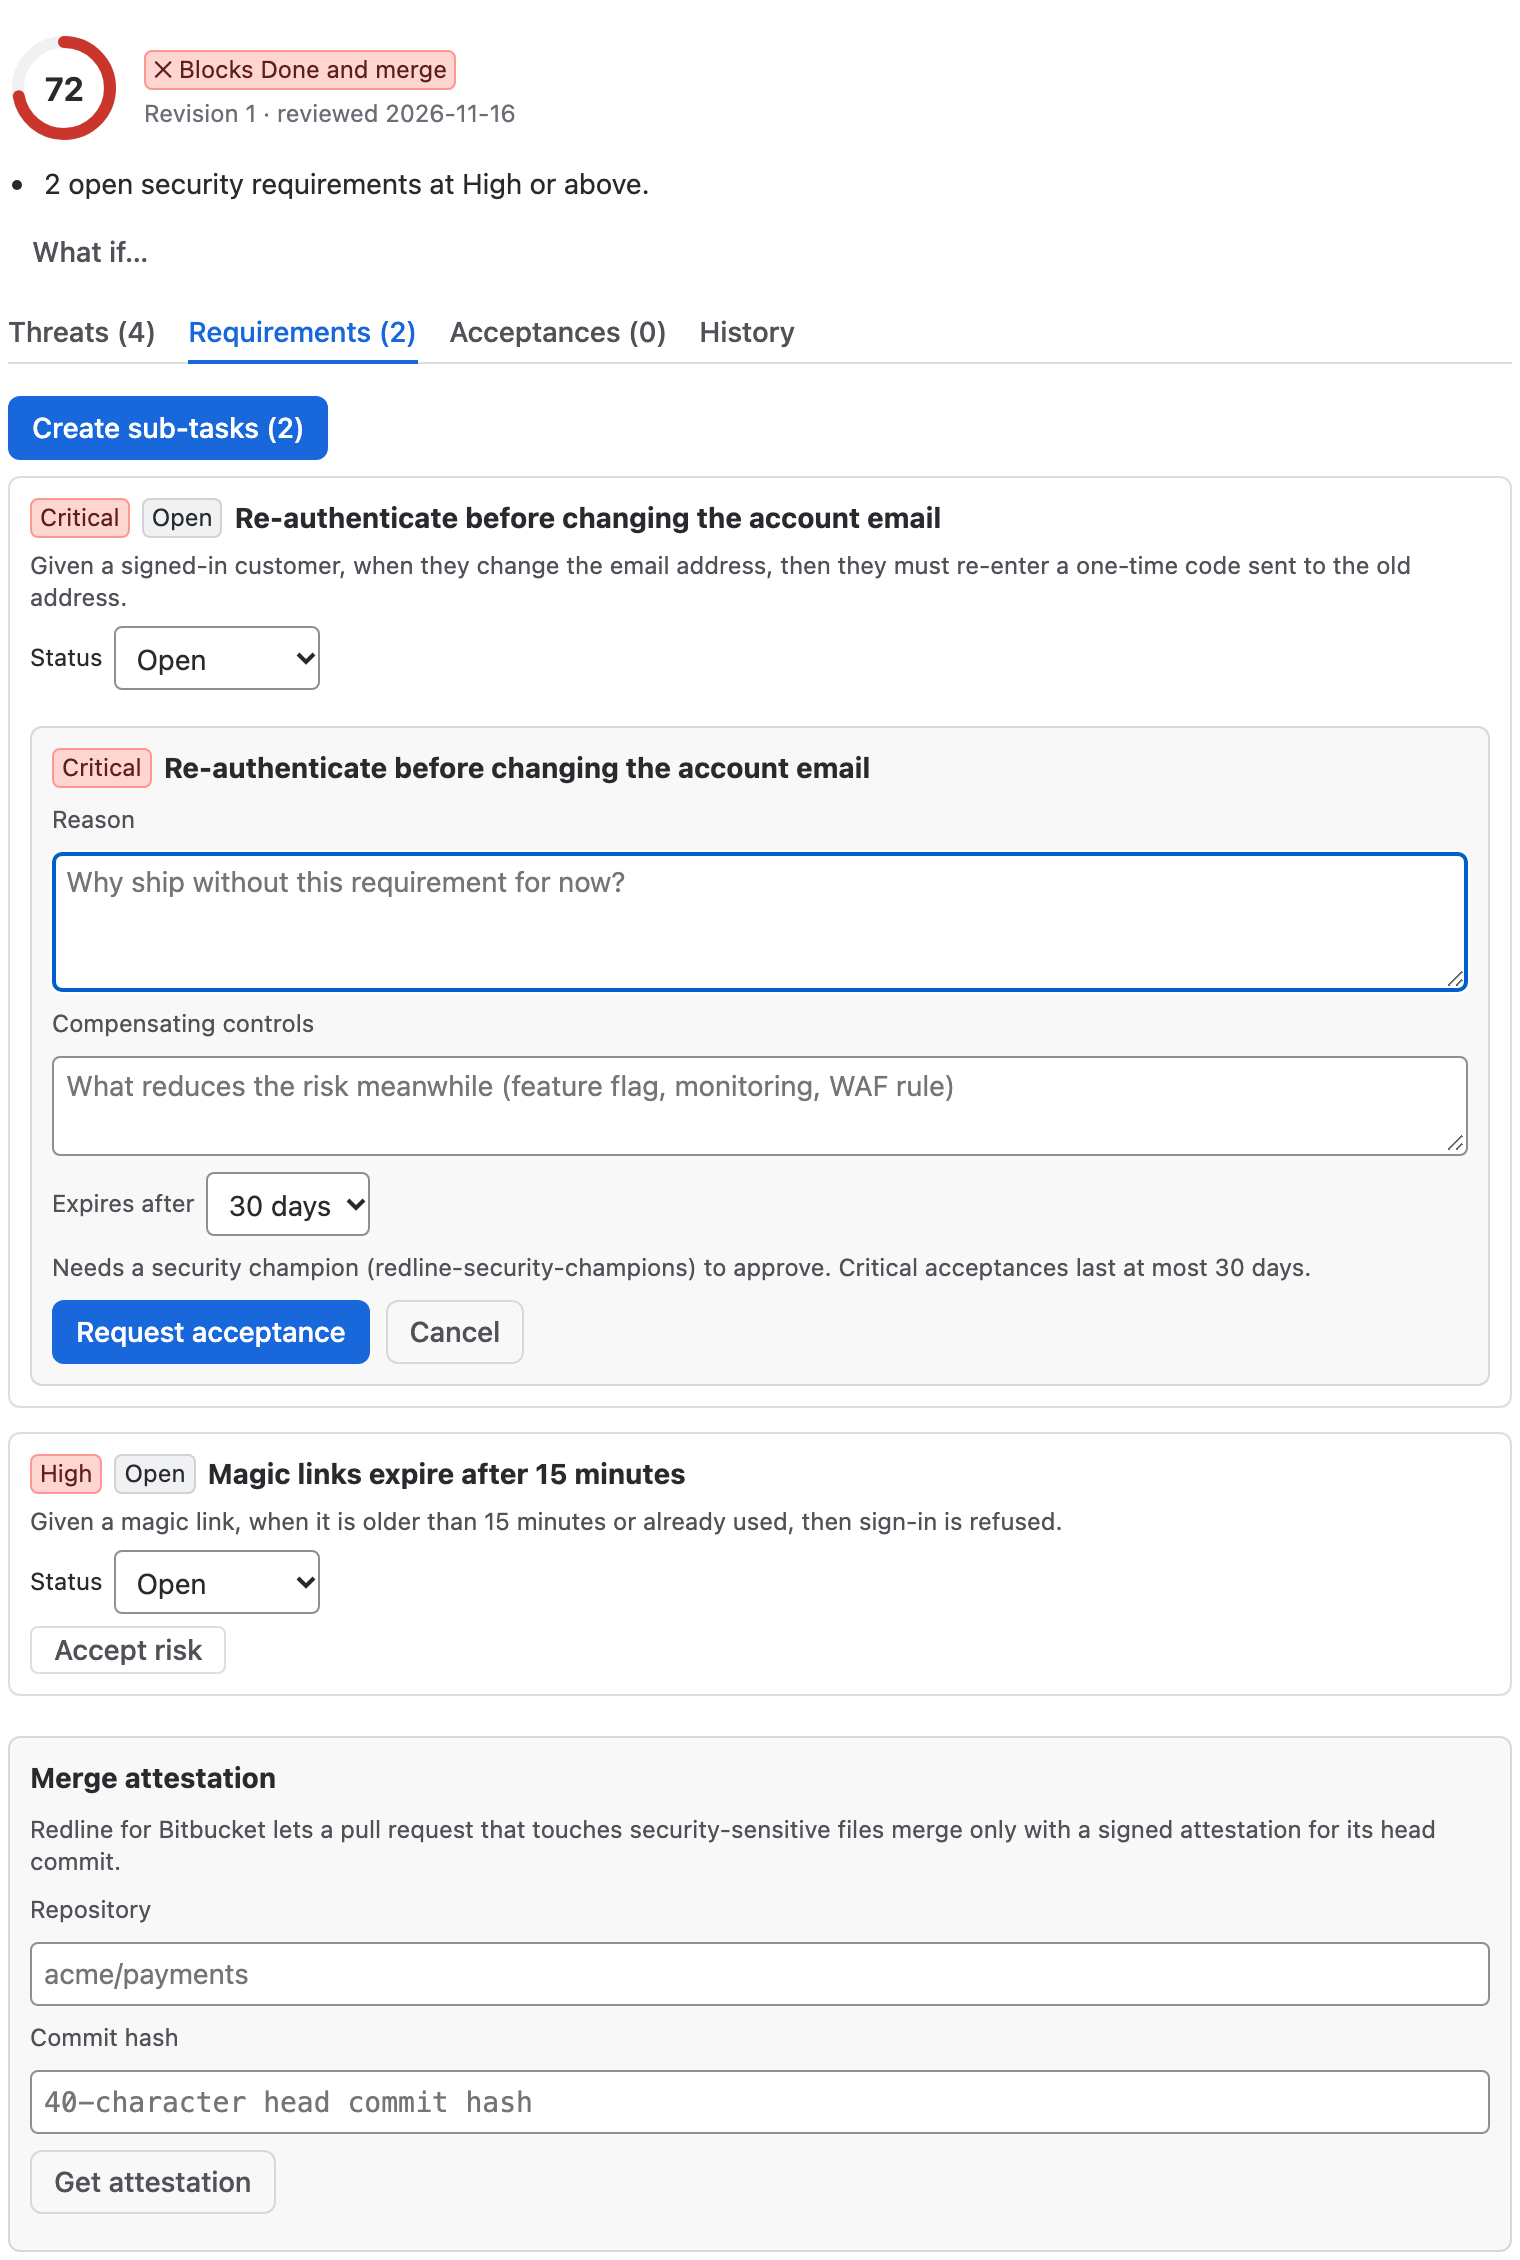
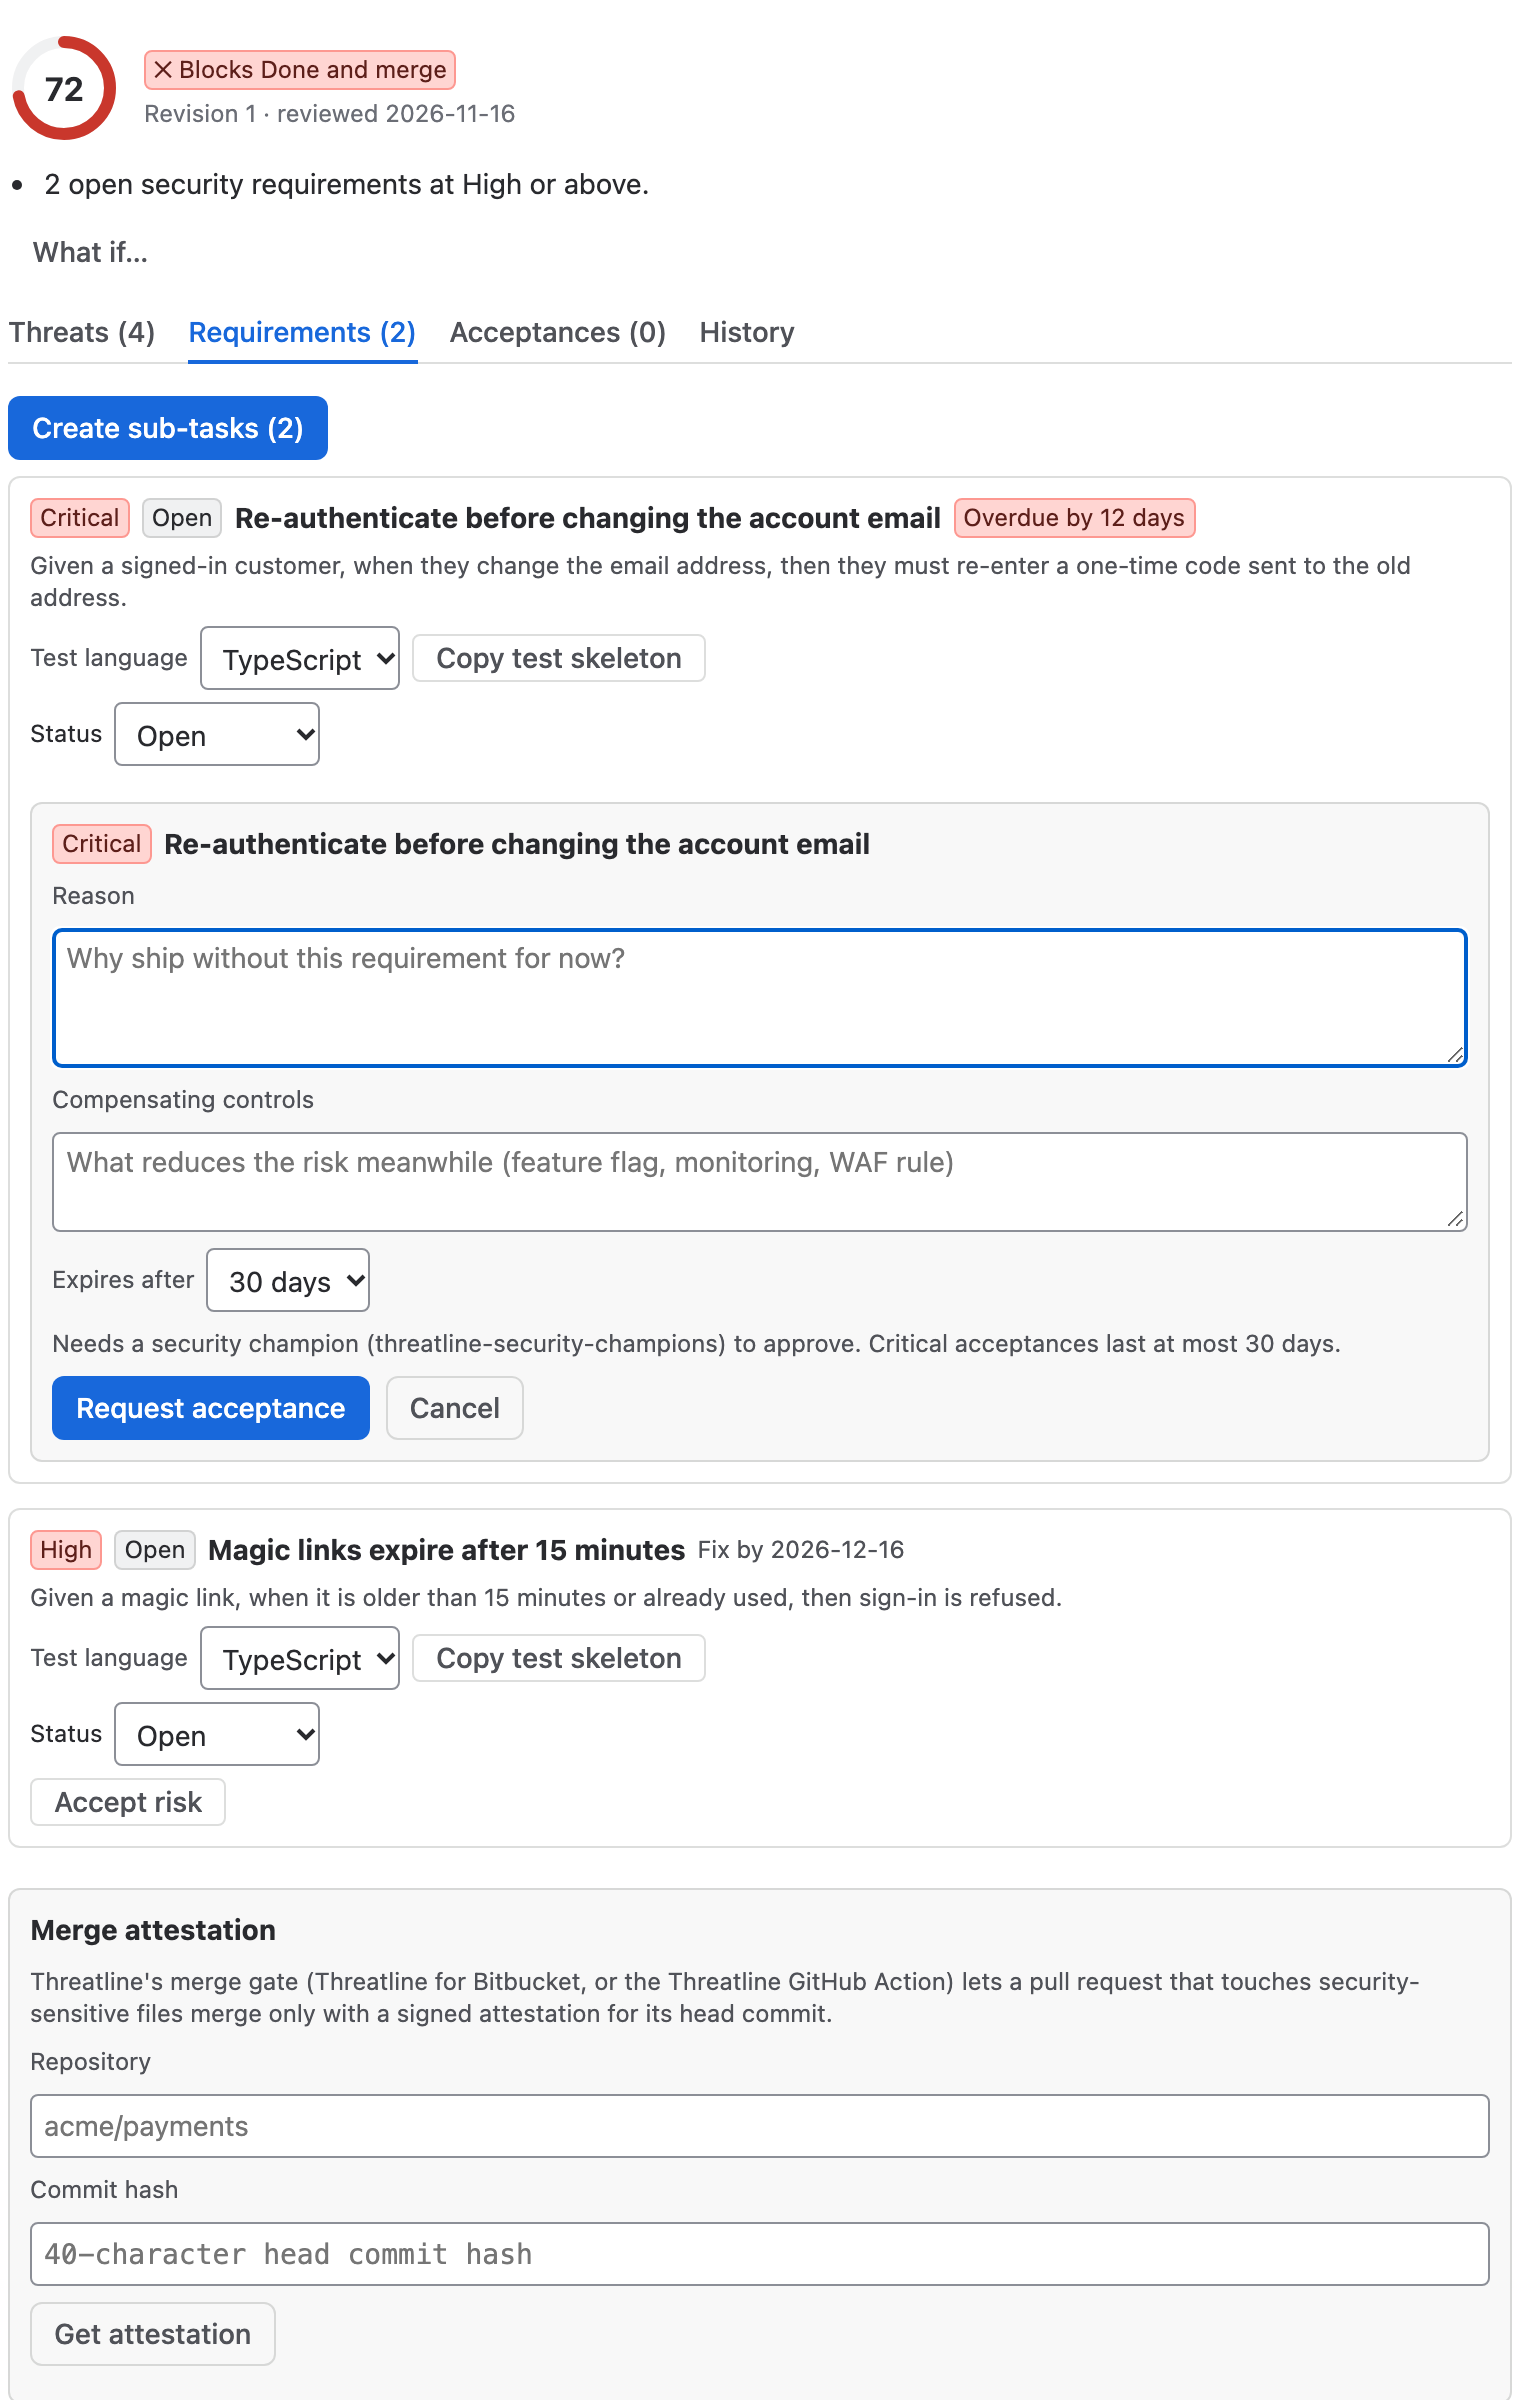
fix: verifier reasons name the threat they refer to; refresh listing screenshots
'Repeats T1' used the verifier's internal id; people now see the threat's title.
Listing screenshots regenerated with the Threatline name (threatline-att.v1).

diff --git a/packages/core/test/verify.test.ts b/packages/core/test/verify.test.ts
@@ -33,6 +33,12 @@ describe('engineVerify (Threatline Engine stage 4)', () => {
     expect(usage.tokensIn).toBeGreaterThan(0);
   });
 
+  it("names the threat a reason refers to (\"repeats T1\") instead of the verifier's own id", async () => {
+    const llm = new FakeLlm({ verify: [JSON.stringify({ verdicts: [{ id: 'T1', keep: true, reason: 'ok' }, { id: 'T2', keep: false, reason: 'Repeats T1; see also T9' }] })] });
+    const r = await engineVerify({ llm, policy: DEFAULT_SITE_POLICY }, [refund, generic], { tokensIn: 0, tokensOut: 0, modelIds: new Set<string>() }, 'n');
+    expect(r.ok && r.value[1]!.reason).toBe('Repeats “Refund abuse”; see also T9');
+  });
+
   it('a reply that misses an id fails (so nothing is changed on a partial answer)', async () => {
     const llm = new FakeLlm({ verify: () => JSON.stringify({ verdicts: [{ id: 'T1', keep: true, reason: 'ok' }] }) });
     const r = await engineVerify({ llm, policy: DEFAULT_SITE_POLICY }, [refund, generic], { tokensIn: 0, tokensOut: 0, modelIds: new Set() }, 'n');

diff --git a/packages/core/src/verify.ts b/packages/core/src/verify.ts
@@ -28,7 +28,12 @@ export async function engineVerify(deps: Pick<PipelineDeps, 'llm' | 'policy'>, t
   if (!r.ok) return r;
   const byId = new Map(r.value.verdicts.map((v) => [v.id, v]));
   if (byId.size !== ids.length || ids.some((id) => !byId.has(id))) return err(appError('schema', 'verifier must give one verdict per threat'));
-  return ok(items.map((t, n) => ({ threatId: t.id, keep: byId.get(ids[n]!)!.keep, reason: byId.get(ids[n]!)!.reason })));
+  // The verifier refers to threats by its own ids ("repeats T1"): people see the threat's title instead.
+  const named = (reason: string) => reason.replace(/\bT(\d{1,3})\b/g, (m, d: string) => {
+    const t = items[Number(d) - 1];
+    return t ? `“${t.title}”` : m;
+  });
+  return ok(items.map((t, n) => ({ threatId: t.id, keep: byId.get(ids[n]!)!.keep, reason: named(byId.get(ids[n]!)!.reason) })));
 }
 
 /**
